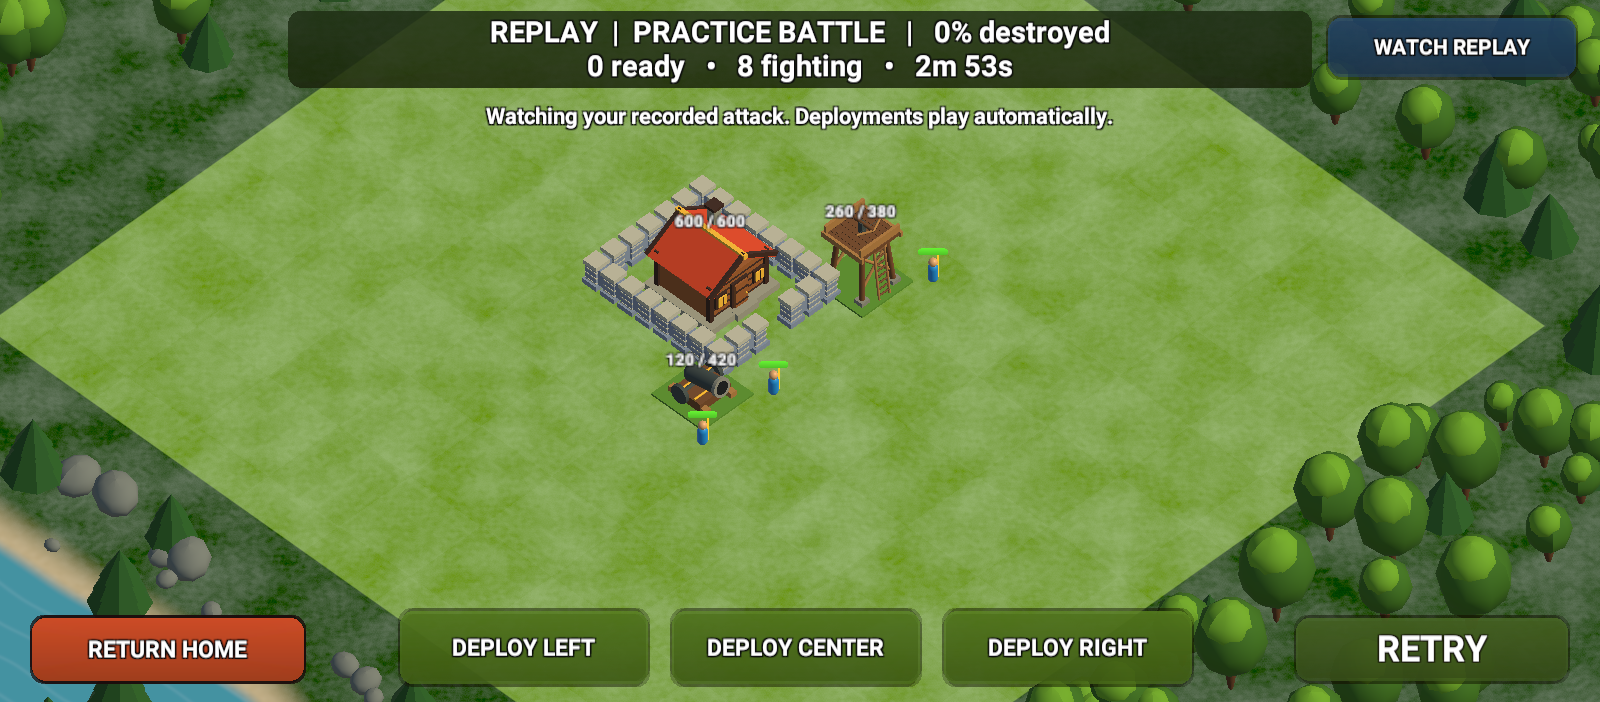
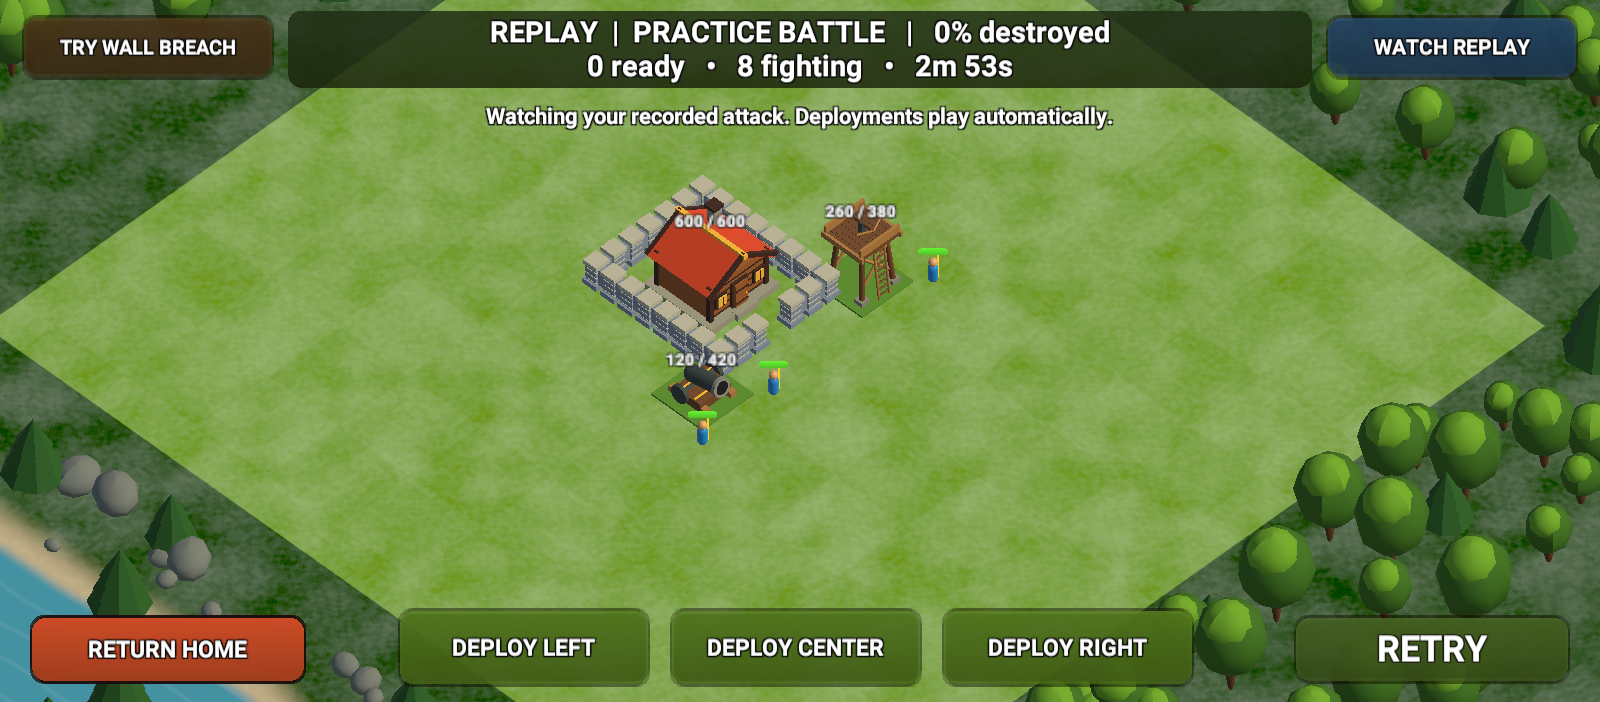
Add selectable Open Gate and Wall Breach practice challenges

Changed region(s): [[0.0, 0.0, 0.1875, 0.1197]]

diff --git a/Assets/Editor/PracticeBattleValidation.cs b/Assets/Editor/PracticeBattleValidation.cs
@@ -115,7 +115,7 @@ public static class PracticeBattleValidation
         if(!SessionState.GetBool(Pending,false))return;
         try
         {
-            Check((DateTime.UtcNow-new DateTime(long.Parse(SessionState.GetString("PracticeBattle.Start","0")))).TotalSeconds<120,"Play mode timeout");
+            Check((DateTime.UtcNow-new DateTime(long.Parse(SessionState.GetString("PracticeBattle.Start","0")))).TotalSeconds<180,"Play mode timeout");
             if(!EditorApplication.isPlaying || EditorApplication.isCompiling)return;
             var game=UnityEngine.Object.FindFirstObjectByType<VillageGameplay>();if(game==null || game.State==null)return;
             int step=SessionState.GetInt("PracticeBattle.Step",0);
@@ -124,9 +124,12 @@ public static class PracticeBattleValidation
                 if(GameObject.Find("Attack Menu")==null)return;
                 SessionState.SetString("PracticeBattle.Home",JsonUtility.ToJson(game.State));SessionState.SetString("PracticeBattle.Save",PlayerPrefs.GetString(VillageSave.Key));
                 Click("Attack Menu");Check(game.PracticeOpen && game.cameraController.InputBlocked && GameObject.Find("Shop")==null,"Attack opens isolated practice controls");
+                Click("Switch Practice Challenge");Check(game.CurrentPracticeBattle.SealedEnclosure,"Select sealed challenge before deployment");
+                Click("Switch Practice Challenge");Check(!game.CurrentPracticeBattle.SealedEnclosure,"Return to open challenge before deployment");
                 Capture("practice-ready.png");
                 for(int i=0;i<8;i++)Click("Deploy Raider "+(i%3));
                 Check(game.CurrentPracticeBattle.Raiders.Count==8 && !GameObject.Find("Deploy Raider 0").GetComponent<Button>().interactable,"Deployment buttons exhaust army");
+                Check(!game.SelectPracticeChallenge(true) && !game.CurrentPracticeBattle.SealedEnclosure,"Active attack rejects challenge switching");
                 SessionState.SetInt("PracticeBattle.Step",1);return;
             }
             if(step==1)
@@ -153,12 +156,32 @@ public static class PracticeBattleValidation
             {
                 if(game.CurrentPracticeBattle.Outcome==PracticeOutcome.Running)return;
                 Check(game.PracticeReplayMatches,"UI replay matches original battle");
+                Click("Switch Practice Challenge");Check(!game.WatchingPracticeReplay && game.CurrentPracticeBattle.SealedEnclosure && game.CurrentPracticeBattle.Remaining==8,"Switch from replay results to wall challenge");
+                Capture("practice-wall-challenge.png");
+                for(int i=0;i<8;i++)Click("Deploy Raider "+(i%3));
+                SessionState.SetInt("PracticeBattle.Step",5);return;
+            }
+            if(step==5)
+            {
+                if(game.CurrentPracticeBattle.Outcome==PracticeOutcome.Running)return;
+                Check(game.CurrentPracticeBattle.Outcome==PracticeOutcome.Victory,"Sealed challenge can be won with eight raiders");
+                bool breached=false;foreach(var b in game.CurrentPracticeBattle.Buildings)if(b.Kind=="Wall" && !b.Alive)breached=true;
+                Check(breached,"Playable sealed challenge requires wall destruction");
+                Capture("practice-wall-results.png");Click("Watch Practice Replay");
+                Check(game.CurrentPracticeBattle.SealedEnclosure && !game.SelectPracticeChallenge(false),"Replay preserves challenge and blocks switching");
+                SessionState.SetInt("PracticeBattle.Step",6);return;
+            }
+            if(step==6)
+            {
+                if(game.CurrentPracticeBattle.Outcome==PracticeOutcome.Running)return;
+                Check(game.PracticeReplayMatches,"Sealed challenge replay matches");
                 Check(JsonUtility.ToJson(game.State)==SessionState.GetString("PracticeBattle.Home","") && PlayerPrefs.GetString(VillageSave.Key)==SessionState.GetString("PracticeBattle.Save",""),"Replay preserves home state and save");
                 Click("Retry Practice");Check(game.PracticeOpen && !game.WatchingPracticeReplay && game.CurrentPracticeBattle.Remaining==8 && game.CurrentPracticeBattle.Tick==0,"Retry resets practice only");
+                Check(game.CurrentPracticeBattle.SealedEnclosure,"Retry retains selected challenge");
                 Click("Return From Practice");Check(!game.PracticeOpen && !game.cameraController.InputBlocked && GameObject.Find("Shop")!=null,"Return restores village and camera");
                 Check(JsonUtility.ToJson(game.State)==SessionState.GetString("PracticeBattle.Home",""),"Returning does not change village state");
                 Click("Attack Menu");Click("Deploy Raider 0");Click("Return From Practice");Check(!game.PracticeOpen,"Early return abandons encounter safely");
-                Finish("PASS: per-tick replay equality for open/sealed layouts; timed commands; surrender/timeout replay; state mismatch detection; replay UI and deployment lock; replay save preservation; entrance routing; sealed-wall breach and replanning; footprint collision checks; walls excluded from victory score; fixed-tick repeatability; deployment limits; defense range/damage/cooldown; both sides attack; victory/defeat/timeout/surrender; terminal-state guard; real-time Attack/deploy/results/retry/return UI; exact home-state and save preservation. Unity "+Application.unityVersion+". No rewards, multiplayer or phone validation.",0);
+                Finish("PASS: challenge selection and active-attack guard; sealed challenge victory and wall destruction; challenge-aware retry/replay; per-tick replay equality for open/sealed layouts; timed commands; surrender/timeout replay; state mismatch detection; replay UI and deployment lock; replay save preservation; entrance routing; sealed-wall breach and replanning; footprint collision checks; walls excluded from victory score; fixed-tick repeatability; deployment limits; defense range/damage/cooldown; both sides attack; victory/defeat/timeout/surrender; terminal-state guard; real-time Attack/deploy/results/retry/return UI; exact home-state and save preservation. Unity "+Application.unityVersion+". No rewards, multiplayer or phone validation.",0);
             }
         }
         catch(Exception e){Debug.LogException(e);Finish("FAIL: "+e,1);}

diff --git a/Assets/Scripts/UI/VillagePracticeBattle.cs b/Assets/Scripts/UI/VillagePracticeBattle.cs
@@ -11,7 +11,8 @@ namespace Kingdoms.UI
         GameObject practiceWorld,practiceCanvas;
         RectTransform practiceSafe;
         Text practiceStatus,practiceInstructions;
-        Button practiceRetry,practiceWatch;
+        Button practiceRetry,practiceWatch,practiceChallenge;
+        bool practiceSealedChallenge;
         readonly List<Button> practiceDeployButtons=new List<Button>();
         readonly Dictionary<int,GameObject> practiceModels=new Dictionary<int,GameObject>();
         readonly Dictionary<int,Text> practiceHealth=new Dictionary<int,Text>();
@@ -50,7 +51,11 @@ namespace Kingdoms.UI
             practiceRetry=Button("Retry Practice",practiceSafe,"RETRY",new Vector2(.81f,.03f),new Vector2(.98f,.12f),new Color(.45f,.64f,.24f));practiceRetry.onClick.AddListener(ResetPracticeBattle);
             practiceWatch=Button("Watch Practice Replay",practiceSafe,"WATCH REPLAY",new Vector2(.83f,.89f),new Vector2(.985f,.975f),new Color(.22f,.45f,.65f));
             ReferenceText(practiceWatch.GetComponentInChildren<Text>(),21,Color.white);practiceWatch.onClick.AddListener(WatchPracticeReplay);
+            practiceChallenge=Button("Switch Practice Challenge",practiceSafe,"",new Vector2(.015f,.89f),new Vector2(.17f,.975f),new Color(.48f,.35f,.19f));
+            ReferenceText(practiceChallenge.GetComponentInChildren<Text>(),20,Color.white);
+            practiceChallenge.onClick.AddListener(()=>SelectPracticeChallenge(!practiceSealedChallenge));
             raiderCloth=PracticeMaterial("Raider tunic",new Color(.1f,.55f,.8f));raiderSkin=PracticeMaterial("Raider skin",new Color(.9f,.65f,.4f));shotMaterial=PracticeMaterial("Practice shots",new Color(1,.8f,.16f),true);
+            practiceSealedChallenge=false;
             ResetPracticeBattle();
         }
 
@@ -61,6 +66,11 @@ namespace Kingdoms.UI
 
         public void ResetPracticeBattle()
         {StartPracticeBattle(null);}
+        public bool SelectPracticeChallenge(bool sealedWalls)
+        {
+            if(practiceBattle==null || (practiceBattle.Outcome==PracticeOutcome.Running && (WatchingPracticeReplay || practiceBattle.Remaining<PracticeBattle.ArmySize)))return false;
+            practiceSealedChallenge=sealedWalls;StartPracticeBattle(null);return true;
+        }
         public void WatchPracticeReplay()
         {
             if(practiceBattle==null || practiceBattle.Outcome==PracticeOutcome.Running)return;
@@ -73,14 +83,17 @@ namespace Kingdoms.UI
             foreach(var label in practiceHealth.Values){label.gameObject.SetActive(false);Destroy(label.gameObject);}
             practiceModels.Clear();practiceHealth.Clear();practiceShots.Clear();practiceAccumulator=0;practicePaused=false;
             practiceReplay=recording==null ? null : new PracticeReplay(recording);
-            practiceBattle=practiceReplay==null ? new PracticeBattle() : practiceReplay.Battle;
+            practiceBattle=practiceReplay==null ? new PracticeBattle(practiceSealedChallenge) : practiceReplay.Battle;
+            practiceSealedChallenge=practiceBattle.SealedEnclosure;
             practiceWorld=new GameObject("Practice Battlefield");practiceWorld.transform.SetParent(transform,false);
             foreach(var building in practiceBattle.Buildings)
             {
                 var model=Instantiate(PrefabFor(building.Kind),practiceWorld.transform);model.name="Practice "+building.Kind;model.SetActive(true);
                 model.transform.position=PracticePosition(building);practiceModels.Add(building.Id,model);AddPracticeHealth(building);
             }
-            practiceInstructions.text="Raiders use openings or break sealed walls. Destroy all three buildings to win.";
+            practiceInstructions.text=practiceSealedChallenge
+                ? "WALL BREACH: Break through the sealed enclosure and destroy all three buildings."
+                : "OPEN GATE: Raiders use the entrance. Switch challenges before deploying, or destroy all three buildings.";
             if(WatchingPracticeReplay)practiceInstructions.text="Watching your recorded attack. Deployments play automatically.";
             foreach(var raider in practiceBattle.Raiders)CreatePracticeRaider(raider);
             foreach(var wall in practiceWorld.GetComponentsInChildren<WallSegment>())wall.RefreshConnections();
@@ -148,6 +161,8 @@ namespace Kingdoms.UI
             foreach(var button in practiceDeployButtons)button.interactable=running && !WatchingPracticeReplay && practiceBattle.Remaining>0;
             practiceRetry.interactable=!running;
             practiceWatch.interactable=!running;
+            practiceChallenge.interactable=!running || (!WatchingPracticeReplay && practiceBattle.Remaining==PracticeBattle.ArmySize);
+            practiceChallenge.GetComponentInChildren<Text>().text=practiceSealedChallenge ? "TRY OPEN GATE" : "TRY WALL BREACH";
             if(!running)practiceInstructions.text=WatchingPracticeReplay
                 ? (PracticeReplayMatches ? "Replay complete. Result matches the original attack." : "Replay mismatch detected. Retry to start a new practice attack.")
                 : "Practice complete. Watch Replay, retry, or return home. No resources were spent or awarded.";

diff --git a/Assets/Scripts/Core/PracticeBattle.cs b/Assets/Scripts/Core/PracticeBattle.cs
@@ -37,6 +37,7 @@ namespace Kingdoms
             }
         }
         readonly bool sealedEnclosure;
+        public bool SealedEnclosure=>sealedEnclosure;
         readonly List<Deployment> deployments=new List<Deployment>();
         readonly List<Entity> buildings=new List<Entity>();
         readonly List<Entity> raiders=new List<Entity>();

diff --git a/PRACTICE_BATTLE_PROGRESS.md b/PRACTICE_BATTLE_PROGRESS.md
@@ -19,7 +19,7 @@ Practice has no purchase costs, loot, trophies, progression rewards or saved arm
 
 `PracticeBattleValidation.Run` is restricted to the isolated Unity test project. It checks entrance preference, a sealed-enclosure breach and replanning, live-footprint collision avoidance, wall-independent victory scoring, repeatable tick states, deployment bounds/caps, range, damage, cooldowns, both sides attacking, all terminal outcomes, real-time deployment and victory, results/retry/return UI, and exact preservation of the home state and saved JSON during the encounter. Evidence is in `PracticeBattleValidation.txt` and `PracticePreviews`.
 
-This is an offline combat slice, not the completed battle system. Navigation currently supports the fixed practice encounter, with a sealed variant exercised by validation; it is not an arbitrary-village pathfinding system. Remaining work includes unit separation, arbitrary village snapshots, defense levels in battle, troops/army training, manual ground deployment, animations/projectiles, campaign opponents, rewards, persisted/exportable replay records, authoritative online battles, and physical-phone performance testing. No APK was rebuilt.
+This is an offline combat slice, not the completed battle system. Navigation currently supports the fixed practice encounter, with an open entrance and a selectable sealed variant; it is not an arbitrary-village pathfinding system. Remaining work includes unit separation, arbitrary village snapshots, defense levels in battle, troops/army training, manual ground deployment, animations/projectiles, campaign opponents, rewards, persisted/exportable replay records, authoritative online battles, and physical-phone performance testing. No APK was rebuilt.
 
 Implementation: `Assets/Scripts/Core/PracticeBattle.cs` contains simulation rules without Unity dependencies. `Assets/Scripts/UI/VillagePracticeBattle.cs` owns the temporary models, controls and presentation. The existing Attack action routes to this mode.
 
@@ -29,3 +29,10 @@ Implementation: `Assets/Scripts/Core/PracticeBattle.cs` contains simulation rule
 Completed encounters now offer Watch Replay. Accepted deployments record their tick and lane; a read-only recording copies these commands, enclosure choice, end tick, outcome and final state hash. Rules version 1 applies to this fixed practice layout. `PracticeReplay` reconstructs the battle, applies tick-zero and delayed commands in original order, and reproduces timed surrender when present. Playback disables manual deployment and compares its final numeric state hash with the original. Retry starts a fresh live encounter; Return Home closes either mode.
 
 The recording lasts only for the current encounter in memory. There is no disk format, cross-version migration, export, replay gallery or speed control. Hashes detect differences but are not security proofs or server authority. Tests compare every tick of delayed-command runs in both enclosure layouts, plus surrender, timeout, mismatch detection and the rendered replay/retry flow. Evidence includes `PracticePreviews/practice-replay.png`.
+
+
+## Selectable challenges
+
+Attack defaults to Open Gate. The upper-left Try Wall Breach / Try Open Gate button switches the fixed enclosure before deployment or after a result. Once a raider is deployed, switching is locked until the result; active replay also locks it. Wall Breach seals the entrance and requires a wall to be destroyed to reach the Town Hall. Army, defense stats and victory rules remain the same. Retry retains the selection and replay records it. Returning home discards it. Both challenges are free practice without progression rewards.
+
+Play-mode validation now completes both challenges, checks wall destruction in the sealed layout, verifies both replays and retry behavior, and confirms the home state and saved JSON remain intact.

diff --git a/BEGINNER_GUIDE.md b/BEGINNER_GUIDE.md
@@ -483,7 +483,7 @@ The main component is [VillageGameplay.cs](Assets/Scripts/UI/VillageGameplay.cs)
 3. Tap a building without dragging. Choose Move or Info / Upgrade. Select a defense to see its range circle.
 4. Tap the builder indicator to inspect both builder slots and active jobs. Select a job to open its details.
 5. Tap Attack! to open Practice Battle. Deploy Left, Center or Right spends one of eight practice raiders per tap.
-6. Watch raiders avoid footprints and approach the enclosed Town Hall through its entrance. If all remaining buildings are sealed off, the simulation can target and break a wall; the sealed layout is currently a validation scenario.
+6. Watch raiders avoid footprints and approach the enclosed Town Hall through its entrance. If all remaining buildings are sealed off, the simulation can target and break a wall; choose Try Wall Breach before deploying to play the sealed layout.
 7. Destroy all three buildings to win. Walls do not count toward destruction percentage. Losing all eight deployed raiders is defeat; the timer ends the battle after three minutes. You may return home early.
 8. After a result, choose Watch Replay to watch the same attack again. Deployments play automatically and deployment buttons are disabled. The result reports whether playback matches the original. Choose Retry to start a new playable encounter or Return Home to restore your village and camera.
 
@@ -692,3 +692,12 @@ The results screen now offers **Watch Replay**. Each accepted deployment records
 **Try it:** Deploy two raiders, wait a few seconds, deploy the others, and finish the attack. Watch Replay and observe the same delay between deployments. Manual deployment is disabled during playback. Retry leaves replay mode and restores eight playable raiders. Return Home also works during playback.
 
 Recordings stay in memory for the current encounter. Retry, returning home or closing the application discards access to that replay. There is no replay export, saved replay browser, speed control or compatibility with older combat rules. This is local fixed-layout playback, not server verification. Validation checks every tick for open and sealed layouts, timed surrender, timeout, mismatch detection, UI controls and home-save preservation. See [PracticeBattleValidation.txt](PracticeBattleValidation.txt) and [replay preview](PracticePreviews/practice-replay.png). No APK rebuild or physical-phone replay test was performed.
+
+
+### Selectable practice challenges
+
+Attack opens **Open Gate**, where raiders use the entrance in the Town Hall enclosure. Before deploying, choose **Try Wall Breach** at the upper left to close that entrance. The same eight-raider army must now destroy a wall to reach the Town Hall. Neither challenge charges resources or grants rewards.
+
+You can change challenges before the first deployment or after a result. Switching starts a fresh encounter and replaces the previous replay. The switch is disabled during an active attack and during replay playback. **Retry** keeps the current challenge; **Watch Replay** reconstructs the same enclosure. Returning home and opening Attack again defaults to Open Gate. Challenge selection is not saved.
+
+Validation covers selecting both layouts, rejecting mid-attack changes, winning the sealed challenge with wall destruction, replaying both layouts, keeping the selected challenge on retry, and preserving the home save. See [challenge preview](PracticePreviews/practice-wall-challenge.png) and [validation report](PracticeBattleValidation.txt). No APK rebuild or phone testing was performed.

diff --git a/GAME_DEVELOPMENT_PHASES.md b/GAME_DEVELOPMENT_PHASES.md
@@ -119,7 +119,7 @@ Done when: spend → builder assignment → waiting → completion → stronger 
 
 ### Phase 5 — Defense and battle simulation foundation
 
-23 September update: a [practice battle](PRACTICE_BATTLE_PROGRESS.md) now runs fixed integer ticks with Cannon/Archer Tower targeting, eight melee raiders, HP/damage, destruction, results, and retry/return. Raiders navigate around footprints, use a wall entrance, and breach sealed walls in the validation variant. Its state is isolated from the home village. The full phase remains partial: arbitrary snapshots, general village navigation, persisted replay records and online validation are outstanding. Watch Replay now reconstructs the current practice attack from timed deployment commands and checks its final state hash; validation compares every tick. Replay export and cross-version support remain outstanding.
+23 September update: a [practice battle](PRACTICE_BATTLE_PROGRESS.md) now runs fixed integer ticks with Cannon/Archer Tower targeting, eight melee raiders, HP/damage, destruction, results, and retry/return. Raiders navigate around footprints, use a wall entrance, and breach sealed walls in the selectable Wall Breach challenge. Open Gate and Wall Breach can be selected before deployment or after results, with challenge-aware retry and replay. Its state is isolated from the home village. The full phase remains partial: arbitrary snapshots, general village navigation, persisted replay records and online validation are outstanding. Watch Replay now reconstructs the current practice attack from timed deployment commands and checks its final state hash; validation compares every tick. Replay export and cross-version support remain outstanding.
 
 Dependencies: 1, 3; coordinate with 4.
 

diff --git a/README.md b/README.md
@@ -8,7 +8,7 @@ Latest development: [the supplied screenshot reference implementation](SCREENSHO
 
 ## Architecture
 
-Newest playable addition: [the practice battle](PRACTICE_BATTLE_PROGRESS.md). Tap Attack to deploy eight raiders against a walled practice Town Hall, Cannon and Archer Tower, then watch a replay, retry or return home. Raiders route through openings and can breach sealed walls. [Defense village progression](DEFENSE_VILLAGE_PROGRESS.md) supports purchases, upgrades and persistence. Full battles and multiplayer remain outstanding.
+Newest playable addition: [the practice battle](PRACTICE_BATTLE_PROGRESS.md). Tap Attack to deploy eight raiders against a walled practice Town Hall, Cannon and Archer Tower, then watch a replay, retry or return home. Choose Open Gate or Wall Breach before deployment. Raiders route through openings and break sealed walls; retry and replay retain the challenge. [Defense village progression](DEFENSE_VILLAGE_PROGRESS.md) supports purchases, upgrades and persistence. Full battles and multiplayer remain outstanding.
 Modular architecture built on Unity 6 and URP.
 
 ## Controls
